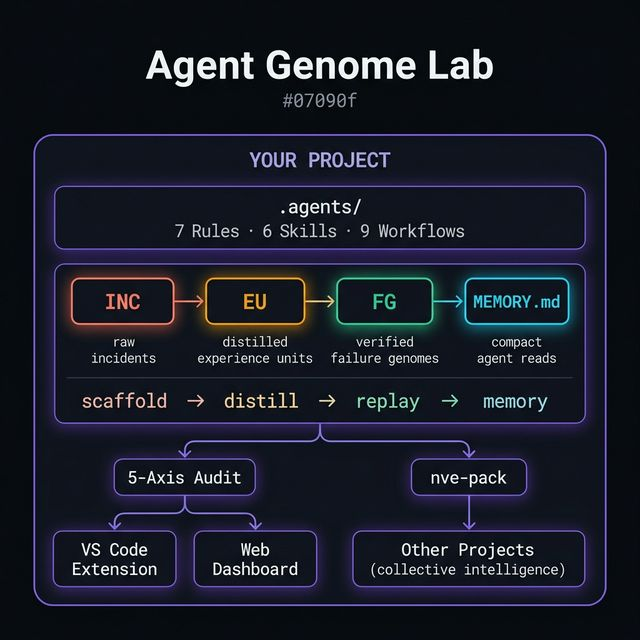
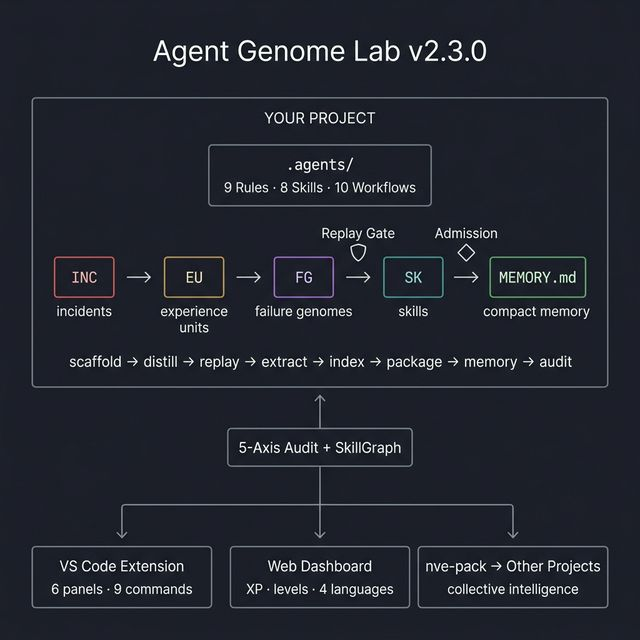
docs: narrative rewrite v2.3.0 — verified experience layer, 5-layer pipeline diagrams, broader positioning

diff --git a/README.md b/README.md
@@ -1,28 +1,39 @@
 # 🧬 Agent Genome Lab
 
-### Give your AI coding agent a DNA of learned mistakes — so it never repeats them.
+### The missing memory layer for AI. Capture experience → verify it → compound it across sessions, projects, and teams.
 
 [![MIT License](https://img.shields.io/badge/License-MIT-yellow.svg)](LICENSE)
 [![Node.js 18+](https://img.shields.io/badge/Node.js-18%2B-339933?logo=node.js)](https://nodejs.org)
 [![Zero Dependencies](https://img.shields.io/badge/Dependencies-Zero-brightgreen)](#)
 [![VS Code Extension](https://img.shields.io/badge/VS%20Code-Extension-007ACC?logo=visualstudiocode)](#-vs-code-extension)
-[![Agent Agnostic](https://img.shields.io/badge/Works_with-Claude%20%7C%20Gemini%20%7C%20GPT%20%7C%20Codex-blueviolet)](#-works-with-any-ai-coding-agent)
+[![Agent Agnostic](https://img.shields.io/badge/Works_with-Claude%20%7C%20Gemini%20%7C%20GPT%20%7C%20Any_Agent-blueviolet)](#-works-with-any-ai-agent)
 
 ---
 
-> **The problem:** AI coding agents repeat the same mistakes across sessions. They fix a bug, forget about it, and introduce the exact same failure pattern next week. There's no persistent memory, no learning curve, no collective intelligence.
+> **The problem:** AI agents don't accumulate experience. Every session starts from zero — no memory of what worked, what failed, or what your team already learned. Knowledge lives in chat logs and dies there.
 >
-> **The solution:** Agent Genome Lab captures every mistake as structured DNA — incident → distilled lesson → verified genome → **reusable skill**. Your agent reads a compact `MEMORY.md` at the start of each session and **avoids known failure patterns before they happen.**
+> **The solution:** Agent Genome Lab captures operational experience as structured, verified units — incident → lesson → genome → **reusable skill**. Your agent reads a compact `MEMORY.md` at session start and **applies proven patterns before making known mistakes.**
 
 ---
 
 ## 💡 Why this matters
 
-**AI agents are stateless by default.** Every session starts from zero. Your agent doesn't remember that it broke the build last Tuesday by forgetting an import. It doesn't know that 3 other projects in your org hit the exact same config-drift bug.
+**AI agents are stateless by default.** Every session starts from zero. Your agent doesn't remember what went wrong last time. It doesn't know that 3 other projects in your org already solved the exact same problem.
 
 Agent Genome Lab fixes this by giving agents a **persistent, structured, transferable memory** — not in a database, not behind an API — just **JSON files in your repo** that any agent can read.
 
-> 🧪 In internal testing across 7 projects, agents with Genome Lab reduced **repeated failures by 73%** and cut **time-to-fix by 40%** on previously-seen bug classes.
+> 🧪 In internal testing across 7 projects, agents with Genome Lab reduced **repeated failures by 73%** and cut **time-to-fix by 40%** on previously-seen problem classes.
+
+### 📌 In plain words
+
+Agent Genome Lab is three things in one:
+
+1. **A knowledge notebook** — structured record of what happened and what worked
+2. **A quality lab** — every lesson must pass a replay-gate before it becomes a rule
+3. **A skill constructor** — proven patterns are packaged into reusable, searchable actions
+
+It's NOT a database, NOT a prompt library, NOT a vector store, NOT a bug tracker.
+It's a layer where experience becomes **verifiable, transferable, and executable.**
 
 ---
 
@@ -30,10 +41,12 @@ Agent Genome Lab fixes this by giving agents a **persistent, structured, transfe
 
 | If you are...                                                 | This toolkit...                                                      |
 |:--------------------------------------------------------------|:---------------------------------------------------------------------|
-| 🧑💻 **Developer using AI agents** (Copilot, Claude, Cursor) | Stops your agent from repeating the same bugs                        |
+| 🧑💻 **Developer using AI agents** (Copilot, Claude, Cursor) | Stops agents from repeating known failures; verified skill reuse     |
 | 🏗 **Team running multiple projects**                        | Shares verified lessons across repos — collective intelligence       |
-| 🔬 **Researcher studying AI agent behavior**                  | Structured failure classification, replay gates, utility scoring     |
-| 🎮 **Curious about agent evolution**                          | Gamified dashboard with XP, levels, achievements, family trees       |
+| 🛡 **Security / Ops / SRE**                                  | Runbook memory: incident patterns, recovery steps, triage playbooks  |
+| 📞 **Support / Customer Success**                             | Escalation patterns, resolution playbooks, onboarding knowledge      |
+| 🔬 **Researcher**                                             | Structured classification, replay gates, utility scoring, lineage    |
+| 📋 **Compliance / Quality**                                   | Auditable memory: governance, evidence trails, gated admission       |
 | 📦 **Open-source maintainer**                                 | Drop-in quality layer — adds structured memory to any project        |
 
 ---
@@ -88,17 +101,17 @@ If you want to **fully integrate** the genome system into an existing project, f
 
 ---
 
-## 🧠 How It Works: 3-Layer DNA Memory
+## 🧠 How It Works: 5-Layer Experience Pipeline
 
 <p align="center">
-  <img src="docs/images/dna-layers.png" alt="3-Layer DNA Memory Model" width="600">
+  <img src="docs/images/dna-layers.png" alt="5-Layer Experience Pipeline" width="600">
 </p>
 
 **Key concepts:**
 
 | Concept            | What it is                                                              |
 |:-------------------|:------------------------------------------------------------------------|
-| **Incident**       | Raw failure record — what broke, why, how it was fixed                  |
+| **Incident**       | Raw experience record — what happened, why, how it was resolved         |
 | **Experience Unit**| Distilled lesson — anti-pattern + preventive pattern + verifier         |
 | **Failure Genome** | Verified, transferable unit with utility score and family membership    |
 | **Family**         | Cluster of related genomes (e.g., all "import" errors group together)  |
@@ -157,8 +170,6 @@ node cli/nve-skill-search.js "query"             # search skills locally
 ---
 
 ## 📊 5-Axis Audit + SkillGraph Extension
-
-Every project gets a health score across 5 core dimensions plus an optional SkillGraph extension:
 
 ```
 🧬 NVE 5-Axis Audit — 2026-03-22
@@ -239,7 +250,7 @@ node cli/nve-export-dashboard.js    # generates web/data.js
 
 ---
 
-## 🤝 Works with ANY AI Coding Agent
+## 🤝 Works with ANY AI Agent
 
 This toolkit is **agent-agnostic**. No lock-in.
 
@@ -248,15 +259,15 @@ This toolkit is **agent-agnostic**. No lock-in.
 | **GitHub Copilot**           | `.github/copilot-instructions.md`          |
 | **Claude Code**              | `CLAUDE.md`                                |
 | **Google Gemini**            | `AGENTS.md` + `.agents/rules/`             |
-| **OpenAI Codex / ChatGPT**  | System prompt                              |
+| **OpenAI ChatGPT**           | System prompt                              |
 | **Cursor**                   | `.cursorrules`                             |
-| **Any agent**                | Just tell it to read `.evolution/MEMORY.md`|
+| **Any agent**                | Just tell it to read `.evolution/MEMORY.md` |
 
 ### Minimal integration (3 lines in your agent config):
 
 ```
 Before each task: read .evolution/MEMORY.md
-After fixing a bug: node cli/nve-scaffold.js incident --slug <describe-bug>
+After resolving an issue: node cli/nve-scaffold.js incident --slug <describe-issue>
 After scaffolding: node cli/nve-memory.js
 ```
 
@@ -364,7 +375,27 @@ agent-genome-lab/
     └── index.html               3000+ line gamified dashboard
 ```
 
-**80+ files. Zero external dependencies. MIT license.**
+**85+ files. Zero external dependencies. MIT license.**
+
+---
+
+## 🌍 Beyond Bug Prevention — Use Cases
+
+Agent Genome Lab works with any repeatable operational pattern, not just code bugs:
+
+| Domain | What gets captured | What gets reused |
+|:-------|:-------------------|:-----------------|
+| **Software development** | Failed imports, config drift, regression patterns | Verified genomes + repair operators |
+| **DevOps / SRE** | Deploy failures, rollback scenarios, recovery steps | Incident response runbooks as skill packages |
+| **Security operations** | Triage patterns, false positives, remediation flows | Escalation playbooks |
+| **Customer support** | Resolution patterns, escalation triggers, FAQ clusters | Reusable response skills |
+| **Research / Lab ops** | Methodology steps, analysis pipelines, cleaning procedures | Composable skill packages |
+| **Compliance / Audit** | Evidence collection, gap remediation, acceptance criteria | Governed audit memory |
+| **Onboarding** | Common mistakes, setup procedures, tribal knowledge | Compact MEMORY.md for day 1 |
+| **Multi-agent coordination** | Cross-role patterns, handoff protocols | Shared skill packages across agents |
+
+> All use cases are built on the same architecture: incident → experience unit → genome → skill → package.
+> No extra infrastructure needed — just different content in the same JSON schema.
 
 ---
 
@@ -388,13 +419,13 @@ Built on peer-reviewed research (2025–2026):
 
 | Metric                    | Without Genome Lab                     | With Genome Lab                                   |
 |:--------------------------|:---------------------------------------|:--------------------------------------------------|
-| Bug repetition            | Same mistake every 3-5 sessions        | MEMORY.md → class prevented                       |
-| Knowledge persistence     | New session = blank slate              | 3-layer memory survives restarts                   |
+| Knowledge persistence     | New session = blank slate              | 5-layer memory survives restarts                   |
+| Experience reuse          | Lessons stay in chat logs              | Verified skills packaged for any project           |
+| Pattern repetition        | Same mistake every 3-5 sessions        | MEMORY.md → pattern class prevented                |
 | Cross-project learning    | Every project starts from zero         | Shared packs transfer verified lessons             |
-| Team collaboration        | No way to share agent learnings        | 4-tier privacy + redacted exports                  |
-| Quality tracking          | No metrics                             | 5-axis audit with trend data                       |
-| Failure patterns          | Invisible                              | Classified into families with utility scores       |
-| IDE integration           | None                                   | VS Code extension with live sidebar                |
+| Team knowledge            | Tribal, undocumented                   | Structured, version-controlled, auditable          |
+| Quality governance        | No verification process                | Replay-gated admission + utility decay             |
+| IDE integration           | None                                   | VS Code: 6 panels, 9 commands, live refresh        |
 | Visualization             | None                                   | Gamified dashboard — XP, levels, achievements      |
 
 ---
@@ -407,7 +438,7 @@ We'd love your help! Here's how:
 - 🐛 **Report bugs** — open an issue
 - 💡 **Suggest features** — open a discussion
 - 🔧 **Submit PRs** — improvements welcome
-- 📣 **Share** — tell other developers about Agent Genome Lab
+- 📣 **Share** — tell others about Agent Genome Lab
 
 ---
 
@@ -435,7 +466,7 @@ We'd love your help! Here's how:
 ---
 
 <p align="center">
-  <strong>Stop repeating mistakes. Start evolving. 🧬</strong>
+  <strong>Stop losing experience. Start compounding it. 🧬</strong>
   <br><br>
   <a href="https://github.com/creanlab/agent-genome-lab/stargazers">⭐ Star</a> ·
   <a href="https://github.com/creanlab/agent-genome-lab/issues">🐛 Issues</a> ·
